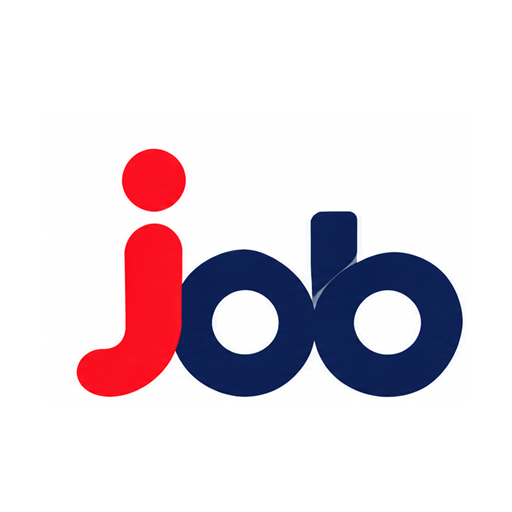
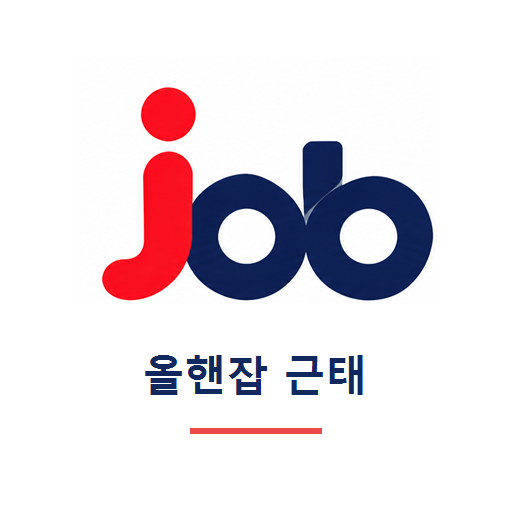
Refine attendance daily cycle and app identity

Changed region(s): [[0.125, 0.1562, 0.9062, 0.7812], [0.375, 0.8125, 0.625, 0.875]]

diff --git a/attendance.html b/attendance.html
@@ -8,13 +8,13 @@
   <meta name="apple-mobile-web-app-status-bar-style" content="default">
   <meta name="apple-mobile-web-app-title" content="올핸잡 출퇴근">
   <link rel="manifest" href="/attendance.webmanifest">
-  <link rel="icon" href="/attendance-icon.png" type="image/png">
-  <link rel="apple-touch-icon" href="/attendance-icon.png">
+  <link rel="icon" href="/attendance-icon.png?v=2" type="image/png">
+  <link rel="apple-touch-icon" href="/attendance-icon.png?v=2">
   <title>출퇴근 | all hands JOB</title>
   <style>
     :root{--navy:#10285d;--navy-2:#173b7a;--teal:#087f83;--coral:#f4514a;--ink:#10224c;--muted:#596982;--line:#d8e1ee;--paper:#fff;--bg:#eef3f8;--safe-bottom:env(safe-area-inset-bottom,0px)}
     *{box-sizing:border-box}html{font-size:16px}html,body{margin:0;min-height:100%;background:var(--bg);color:var(--ink);font-family:"IBM Plex Sans KR","Noto Sans KR",system-ui,sans-serif;-webkit-tap-highlight-color:transparent}button,select,a{font:inherit}.shell{width:min(620px,100%);min-height:100vh;margin:auto;background:var(--bg);padding-bottom:calc(40px + var(--safe-bottom))}
-    .top{position:sticky;top:0;z-index:5;display:flex;align-items:center;justify-content:center;min-height:58px;padding:6px 16px;background:#fff;border-bottom:1px solid var(--line);box-shadow:0 3px 14px rgba(16,40,93,.06)}.brand{display:flex;align-items:center}.brand-logo{display:block;width:68px;height:44px;object-fit:contain}.portal{display:none}
+    .top{position:sticky;top:0;z-index:5;display:flex;align-items:center;justify-content:center;min-height:58px;padding:6px 16px;background:#fff;border-bottom:1px solid var(--line);box-shadow:0 3px 14px rgba(16,40,93,.06)}.brand{display:flex;align-items:center;gap:10px}.brand-logo{display:block;width:68px;height:44px;object-fit:contain}.app-title{padding-left:10px;border-left:1px solid #d8e1ee;color:var(--navy);font-size:18px;font-weight:950;letter-spacing:-.035em}.portal{display:none}
     .hero{position:relative;overflow:hidden;margin:8px 14px 0;padding:10px 16px;border-radius:14px;background:linear-gradient(135deg,var(--navy),#075f72 72%,var(--teal));color:#fff;text-align:center;box-shadow:0 10px 24px rgba(16,40,93,.14)}.hero:after{content:"";position:absolute;width:130px;height:130px;right:-70px;top:-82px;border:1px solid #ffffff38;border-radius:50%}.hero small,.hero h1,.hero p{display:none}.clock{position:relative;z-index:1;margin:0;font-size:28px;font-weight:950;line-height:1;letter-spacing:-.045em;font-variant-numeric:tabular-nums}.date{position:relative;z-index:1;margin-top:4px;color:#ffffffd8;font-size:11px;font-weight:750}
     .content{padding:14px}.card{margin-bottom:14px;padding:22px 20px;border:1px solid var(--line);border-radius:20px;background:var(--paper);box-shadow:0 10px 26px rgba(25,50,94,.06)}.card h2{display:flex;align-items:center;gap:9px;margin:0 0 8px;font-size:21px;letter-spacing:-.035em}.step{display:inline-grid;place-items:center;width:30px;height:30px;border-radius:10px;background:#edf2fb;color:var(--navy);font-size:14px;font-weight:950}.muted{margin:0;color:var(--muted);font-size:15px;line-height:1.65}.field{display:grid;gap:9px;margin-top:17px;color:#41516b;font-size:15px;font-weight:900}.field select{width:100%;min-height:58px;padding:0 45px 0 15px;border:2px solid #c3cede;border-radius:14px;background:#fff;color:var(--ink);font-size:17px;font-weight:850}.field select:focus{outline:3px solid #b8d8ff;outline-offset:2px;border-color:var(--navy-2)}
     .status{display:grid;grid-template-columns:1fr auto;gap:14px;align-items:center;padding-bottom:17px;border-bottom:1px solid #e4e9f1}.status-pill{display:inline-flex;align-items:center;gap:8px;margin-top:8px;padding:8px 12px;border-radius:99px;background:#edf2fa;color:#4b5c75;font-size:14px;font-weight:900}.status-pill:before{content:"";width:9px;height:9px;border-radius:50%;background:#8492a8}.status-pill.active{background:#dff6eb;color:#116844}.status-pill.active:before{background:#19a267}.status-time{text-align:right;color:var(--muted);font-size:14px}.status-time b{display:block;margin-top:3px;color:var(--ink);font-size:23px;font-variant-numeric:tabular-nums}
@@ -29,7 +29,7 @@
 </head>
 <body>
   <main class="shell">
-    <header class="top"><div class="brand"><img class="brand-logo" src="/allhands-job-ci.png" alt="올핸잡"></div><a class="portal" href="/worker.html">내 정보</a></header>
+    <header class="top"><div class="brand"><img class="brand-logo" src="/allhands-job-ci.png" alt="올핸잡"><span class="app-title">근태 체크기</span></div><a class="portal" href="/worker.html">내 정보</a></header>
     <section class="hero"><small>간편 출퇴근</small><h1>출근·퇴근을 기록하세요</h1><p>아래 버튼을 누르면 현재 시간과 위치가 근태에 바로 기록됩니다.</p><div class="clock" id="clock">--:--:--</div><div class="date" id="today">날짜 확인 중</div></section>
     <div class="content">
       <select id="assignment" hidden aria-hidden="true"></select>
@@ -53,14 +53,14 @@
   <dialog class="install-guide" id="installGuide"><div class="install-guide-inner"><h2>휴대폰에 설치하기</h2><p id="installGuideIntro">브라우저 메뉴에서 홈 화면에 추가할 수 있습니다.</p><ol class="install-steps" id="installSteps"></ol><button class="guide-close" id="installGuideClose">확인</button></div></dialog>
   <script>
     const $=selector=>document.querySelector(selector),assignment=$('#assignment'),message=$('#message'),loading=$('#loading');
-    let items=[],deferredInstall=null;
+    let items=[],deferredInstall=null,lastRenderedDay='';
     const clean=value=>String(value??''),esc=value=>clean(value).replace(/[&<>"']/g,char=>({'&':'&amp;','<':'&lt;','>':'&gt;','"':'&quot;',"'":'&#39;'}[char]));
     const kstDate=value=>new Intl.DateTimeFormat('ko-KR',{timeZone:'Asia/Seoul',year:'numeric',month:'2-digit',day:'2-digit'}).format(value);
     const kstTime=value=>new Intl.DateTimeFormat('ko-KR',{timeZone:'Asia/Seoul',hour:'2-digit',minute:'2-digit',hour12:false}).format(value);
-    function tick(){const now=new Date();$('#clock').textContent=new Intl.DateTimeFormat('ko-KR',{timeZone:'Asia/Seoul',hour:'2-digit',minute:'2-digit',second:'2-digit',hour12:false}).format(now);$('#today').textContent=new Intl.DateTimeFormat('ko-KR',{timeZone:'Asia/Seoul',year:'numeric',month:'long',day:'numeric',weekday:'long'}).format(now)}
+    function tick(){const now=new Date(),dayKey=new Intl.DateTimeFormat('en-CA',{timeZone:'Asia/Seoul'}).format(now);$('#clock').textContent=new Intl.DateTimeFormat('ko-KR',{timeZone:'Asia/Seoul',hour:'2-digit',minute:'2-digit',second:'2-digit',hour12:false}).format(now);$('#today').textContent=new Intl.DateTimeFormat('ko-KR',{timeZone:'Asia/Seoul',year:'numeric',month:'long',day:'numeric',weekday:'long'}).format(now);if(lastRenderedDay&&lastRenderedDay!==dayKey&&items.length)render();lastRenderedDay=dayKey}
     function selected(){return items.find(item=>String(item.id)===assignment.value)||items[0]}
     function records(item){return Array.isArray(item?.employer_note?.workerAttendance)?item.employer_note.workerAttendance:[]}
-    function render(){const item=selected();if(!item)return;const rows=records(item).slice().sort((a,b)=>clean(b.workDate).localeCompare(clean(a.workDate))),open=rows.find(row=>row.checkInAt&&!row.checkOutAt),today=new Intl.DateTimeFormat('en-CA',{timeZone:'Asia/Seoul'}).format(new Date()),current=rows.find(row=>row.workDate===today)||open,latestStatus=rows[0]?.checkOutLocation?.status||rows[0]?.checkInLocation?.status||'',needsCorrection=Boolean(item.employer_note?.operation?.worksiteGeo?.needsConfirmation)||/확인 필요|미등록|최초/.test(latestStatus);$('#statusPill').textContent=open?'근무 중':current?.checkOutAt?'퇴근 완료':'기록 전';$('#statusPill').classList.toggle('active',Boolean(open));$('#lastTime').textContent=current?.checkOutAt?kstTime(new Date(current.checkOutAt)):current?.checkInAt?kstTime(new Date(current.checkInAt)):'-';$('#checkIn').disabled=Boolean(open);$('#checkOut').disabled=!open;$('#correct').classList.toggle('show',needsCorrection);$('#history').innerHTML=rows.slice(0,7).map(row=>`<div class="history-row"><time>${esc(row.workDate?.slice(5)||'-')}</time><b>${row.checkInAt?esc(kstTime(new Date(row.checkInAt))):'-'} → ${row.checkOutAt?esc(kstTime(new Date(row.checkOutAt))):'근무 중'}</b><span>${esc(row.checkOutLocation?.status||row.checkInLocation?.status||'담당자 확인')}</span></div>`).join('')||'<div class="empty">아직 출퇴근 기록이 없습니다.</div>'}
+    function render(){const item=selected();if(!item)return;const rows=records(item).slice().sort((a,b)=>clean(b.workDate).localeCompare(clean(a.workDate))),open=rows.find(row=>row.checkInAt&&!row.checkOutAt),today=new Intl.DateTimeFormat('en-CA',{timeZone:'Asia/Seoul'}).format(new Date()),current=rows.find(row=>row.workDate===today)||open,completedToday=Boolean(current?.workDate===today&&current?.checkOutAt),latestStatus=rows[0]?.checkOutLocation?.status||rows[0]?.checkInLocation?.status||'',needsCorrection=Boolean(item.employer_note?.operation?.worksiteGeo?.needsConfirmation)||/확인 필요|미등록|최초/.test(latestStatus);$('#statusPill').textContent=open?'근무 중':completedToday?'퇴근 완료':'기록 전';$('#statusPill').classList.toggle('active',Boolean(open));$('#lastTime').textContent=current?.checkOutAt?kstTime(new Date(current.checkOutAt)):current?.checkInAt?kstTime(new Date(current.checkInAt)):'-';$('#checkIn').disabled=Boolean(open)||completedToday;$('#checkOut').disabled=!open;$('#correct').classList.toggle('show',needsCorrection);$('#history').innerHTML=rows.slice(0,7).map(row=>`<div class="history-row"><time>${esc(row.workDate?.slice(5)||'-')}</time><b>${row.checkInAt?esc(kstTime(new Date(row.checkInAt))):'-'} → ${row.checkOutAt?esc(kstTime(new Date(row.checkOutAt))):'근무 중'}</b><span>${esc(row.checkOutLocation?.status||row.checkInLocation?.status||'담당자 확인')}</span></div>`).join('')||'<div class="empty">아직 출퇴근 기록이 없습니다.</div>'}
     async function load(){const response=await fetch('/api/worker-portal',{cache:'no-store'});const data=await response.json().catch(()=>({}));if(response.status===401){items=[];assignment.innerHTML='<option>전용 링크 연결 필요</option>';$('#checkIn').disabled=$('#checkOut').disabled=true;$('#correct').classList.remove('show');$('#history').innerHTML='<div class="empty">전용 링크로 연결하면 출퇴근 기록을 확인할 수 있습니다.</div>';$('#authGuide').classList.add('show');message.style.color='#52617b';message.textContent='전용 출퇴근 앱 링크로 연결해 주세요.';return}if(!response.ok)throw new Error(data.error||'근무 정보를 불러오지 못했습니다.');$('#authGuide').classList.remove('show');items=data.items||[];if(!items.length){assignment.innerHTML='<option>배치된 근무지가 없습니다</option>';$('#checkIn').disabled=$('#checkOut').disabled=true;message.textContent='운영회원 기업의 근무지에 배치된 뒤 이용할 수 있습니다.';return}assignment.innerHTML=items.map(item=>`<option value="${item.id}">${esc(item.client_name||item.job_data?.clientName||item.job_title||'근무지')}</option>`).join('');render()}
     function position(){return new Promise((resolve,reject)=>{if(!navigator.geolocation)return reject(new Error('이 기기에서는 위치 확인을 지원하지 않습니다.'));navigator.geolocation.getCurrentPosition(resolve,error=>reject(new Error(error.code===1?'위치 권한을 허용해 주세요.':'현재 위치를 확인하지 못했습니다. 잠시 후 다시 시도해 주세요.')),{enableHighAccuracy:true,timeout:15000,maximumAge:0})})}
     async function clock(event){const item=selected();if(!item)return;message.textContent='';$('#checkIn').disabled=$('#checkOut').disabled=true;loading.classList.add('show');try{const point=await position(),coords=point.coords,response=await fetch('/api/worker-portal',{method:'POST',headers:{'Content-Type':'application/json'},body:JSON.stringify({action:'attendance-clock',applicationId:Number(item.id),event,latitude:coords.latitude,longitude:coords.longitude,accuracy:coords.accuracy})}),out=await response.json();if(!response.ok)throw new Error(out.error||'근태를 기록하지 못했습니다.');const currentRecords=records(item),nextRecords=event==='check-in'?[...currentRecords.filter(row=>clean(row?.workDate)!==clean(out.record?.workDate)),out.record]:currentRecords.map(row=>row.checkInAt&&!row.checkOutAt?out.record:row);item.employer_note={...(item.employer_note||{}),workerAttendance:nextRecords};render();$('#locationInfo').innerHTML=`<i></i><div><strong>${esc(out.locationStatus)}</strong><br>${out.distanceMeters===null?'현장 위치 등록 전 · 담당자가 확인합니다.':`현장 기준 약 ${Number(out.distanceMeters).toLocaleString()}m · GPS 오차 약 ${Math.round(coords.accuracy)}m`}</div>`;message.style.color='#17714f';message.textContent=out.message;await load()}catch(error){message.style.color='#b34035';message.textContent=error.message;render()}finally{loading.classList.remove('show')}}

diff --git a/api/worker-portal.js b/api/worker-portal.js
@@ -165,10 +165,12 @@ module.exports = async (req, res) => {
       const old = Array.isArray(previous.workerAttendance) ? previous.workerAttendance : [];
       const openIndex = [...old].reverse().findIndex(row => row?.checkInAt && !row?.checkOutAt);
       const actualOpenIndex = openIndex < 0 ? -1 : old.length - 1 - openIndex;
+      const todayRecord = old.find(row => clean(row?.workDate) === today);
       let workDate = today;
       let record;
       if (event === 'check-in') {
         if (actualOpenIndex >= 0) return res.status(409).json({ error: '이미 출근 처리되어 있습니다. 먼저 퇴근을 기록해 주세요.' });
+        if (todayRecord?.checkOutAt) return res.status(409).json({ error: '오늘 출퇴근 기록이 완료되었습니다. 다음 날 다시 출근할 수 있습니다.' });
         record = { workDate, attendance: '출근', normalHours: 0, overtimeHours: 0, checkInAt: nowIso, checkInLocation: location, reportedAt: nowIso, source: 'attendance-app' };
       } else {
         if (actualOpenIndex < 0) return res.status(409).json({ error: '출근 기록이 없습니다. 출근부터 기록해 주세요.' });

diff --git a/attendance-sw.js b/attendance-sw.js
@@ -1,5 +1,5 @@
-const CACHE='allhands-attendance-v5';
-const SHELL=['/attendance.html','/attendance.webmanifest','/attendance-icon.png','/allhands-job-ci.png'];
+const CACHE='allhands-attendance-v6';
+const SHELL=['/attendance.html','/attendance.webmanifest','/attendance-icon.png?v=2','/allhands-job-ci.png'];
 self.addEventListener('install',event=>event.waitUntil(caches.open(CACHE).then(cache=>cache.addAll(SHELL)).then(()=>self.skipWaiting())));
 self.addEventListener('activate',event=>event.waitUntil(caches.keys().then(keys=>Promise.all(keys.filter(key=>key!==CACHE).map(key=>caches.delete(key)))).then(()=>self.clients.claim())));
 self.addEventListener('fetch',event=>{
